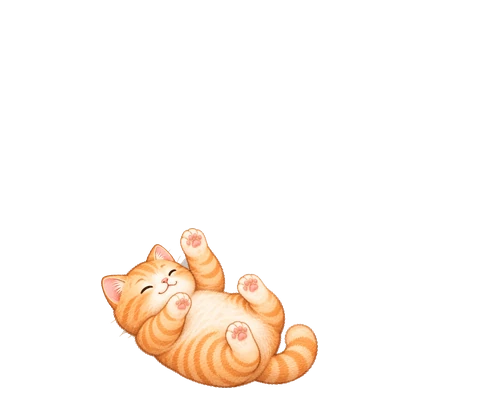
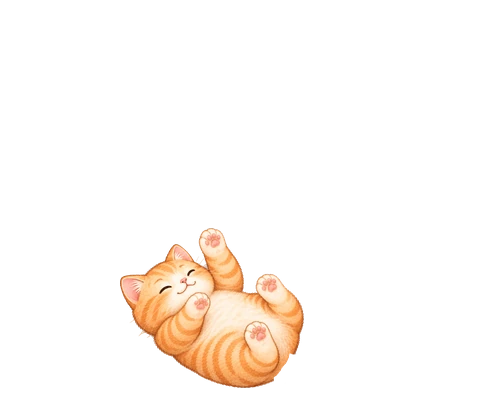
Wire in tail swish (tapuz belly1) and nudge temaki-ball cat up 15px
Body/tail split for a pose (raw/cats/<cat>-<pose>-notail.png + -tail.png) is
now a reusable pipeline feature: process_cat_tail re-derives the body's
placement transform and applies it to the tail so it lands pixel-perfect,
logs a ready-to-paste sway origin, and feathers the tail's alpha near the
seam so the rotation doesn't read as clipping into the hip.

Claude-Session: https://claude.ai/code/session_01E7v64VRdhvH8oCgXhRmXMK

Changed region(s): [[0.1875, 0.57, 0.6875, 0.99]]

diff --git a/index.html b/index.html
@@ -163,6 +163,14 @@
   /* --wob-deg lets a specific item rock further than the 1.5deg default (see ITEMS' wobbleDeg,
      e.g. the temari ball, which otherwise barely reads as moving at its 0.5x in-room scale). */
   @keyframes wob { 0%, 100% { transform: rotate(0); } 50% { transform: rotate(var(--wob-deg, 1.5deg)); } }
+  /* Tail swish (see CAT_TAILS): the tail is its own image, the same 480x400 canvas as its pose (see
+     process_cat_tail in process_art.py), stacked exactly over the body with inset:0 so no extra
+     positioning is needed here -- only a rotation around the base, where it meets the body. */
+  .cat-layer .tail-sway { position: absolute; inset: 0; width: 100%; height: 100%; animation: tail-swish 3.2s ease-in-out infinite; }
+  @keyframes tail-swish {
+    0%, 100% { transform: rotate(0deg); }
+    50% { transform: rotate(6deg); }
+  }
   /* Carp streamer fish: rocks side to side in the wind, not spinning like the pinwheel -- see
      itemLayers' `fish`. Asymmetric amplitude (further one way than the other) and the extra
      keyframe stops read as wind gusts rather than a metronome. */
@@ -593,7 +601,7 @@
     // it back down toward the bottom of the icon.
     // wobbleDeg: rocks further than the 1.5deg default -- at this item's 0.5x in-room scale the
     // default amplitude was barely visible (see --wob-deg in @keyframes wob).
-    'temaki-ball': { room: 'engawa', ja: '桜毬', tr: 'sakura mari', en: 'flowered thread ball', price: 180, pose: 'lie', wobble: true, wobbleDeg: 13, scale: 0.5, thumbScale: 0.5, thumbShiftY: 20, catScale: 1.1, cat: { x: 79.97, y: 88.36 } },
+    'temaki-ball': { room: 'engawa', ja: '桜毬', tr: 'sakura mari', en: 'flowered thread ball', price: 180, pose: 'lie', wobble: true, wobbleDeg: 13, scale: 0.5, thumbScale: 0.5, thumbShiftY: 20, catScale: 1.1, cat: { x: 79.97, y: 81.4 } },
     // belly1: the cat lies on its back underneath the flag, batting up at it.
     // fish: measured directly from the shared raw canvas before koinobori-stand.png/koinobori-fish.png
     // were split apart, so it lines back up with the pole exactly (see itemLayers' `fish`). origin is
@@ -871,6 +879,13 @@
   const catPortrait = (id, sil) => `<div class="portrait-cat${sil ? ' sil' : ''}"><img src="${art.cat(id, 'sit')}" alt=""></div>`;
   // Poses still enough to read as "resting" rather than mid-action -- see catLayer's `breathes`.
   const BREATHE_POSES = new Set(['sleep', 'sit', 'lie', 'peer', 'belly1', 'belly2', 'soak']);
+  // Cats with a tail split from their pose art so it can swish on its own (see raw/cats/<cat>-<pose>
+  // -notail.png + -tail.png, and process_cat_tail in process_art.py, which saves the aligned overlay
+  // to cats/<cat>/<pose>-tail.webp). origin is the tail's base -- where it meets the body -- found by
+  // process_cat_tail's placement math, not guessed: the closest point between the two cutouts in
+  // their shared raw canvas, converted to % of the 480x400 pose canvas (its log line prints it ready
+  // to paste here). Add a '<cat>-<pose>' entry as each cat's tail is extracted.
+  const CAT_TAILS = { 'tapuz-belly1': { origin: '60.5% 88.2%' } };
   function catLayer(v, it) {
     const pose = v.pose || it.pose;
     const o = (it.offset && it.offset[v.cat]) || { x: 0, y: 0, s: 1 };
@@ -884,8 +899,10 @@
     // poses (head/ride/face peeking or riding, half/full eating, soaking mid-motion) are left still
     // since a cat already doing something there doesn't also need an idle "alive" cue.
     const breathes = BREATHE_POSES.has(pose);
+    const tail = CAT_TAILS[`${v.cat}-${pose}`];
+    const tailImg = tail ? `<img class="tail-sway" src="cats/${v.cat}/${pose}-tail.webp" alt="" style="transform-origin:${tail.origin}">` : '';
     return `<div class="cat-layer${v.fresh ? ' cat-in' : ''}" style="left:${x - w * 0.5}%;top:${y - w * 0.97}%;width:${w}%">` +
-      shadow + `<img class="${breathes ? 'breathe' : ''}" src="${art.cat(v.cat, pose)}" alt=""></div>`;
+      shadow + `<img class="${breathes ? 'breathe' : ''}" src="${art.cat(v.cat, pose)}" alt="">${tailImg}</div>`;
   }
 
   /* ---------- Visiting logic (same rules as the yard, now per room) ---------- */

diff --git a/tools/process_art.py b/tools/process_art.py
@@ -23,6 +23,11 @@ Reads inn/raw/ and writes:
 
 Raw names:
   raw/cats/<cat>-<pose>[-<n>].png   e.g. tapuz-sit.png, tapuz-sleep-2.png
+  raw/cats/<cat>-<pose>-notail.png, raw/cats/<cat>-<pose>-tail.png
+                                     optional pair, body/tail split so the tail can sway at runtime
+                                     (see process_cat_tail and CAT_TAILS in index.html). The notail
+                                     art replaces <pose>.png for that cat; -tail.png is saved as its
+                                     own cats/<cat>/<pose>-tail.webp, aligned pixel-for-pixel onto it.
   raw/objects/<item>.png            e.g. box.png
   raw/food/<item>.png               consumable food items, e.g. yakitori.png
   raw/scene/room-<id>.png           e.g. room-zashiki.png (see ROOM_IDS in index.html)
@@ -107,6 +112,8 @@ FRONT_WALLS = {
 }
 
 POSE_RE = re.compile(r'^(?P<cat>[a-z]+)-(?P<pose>sit|sleep|lie|head|ride|face|half|soak|peer|full|belly1|belly2)(?:-(?P<n>\d+))?$')
+# A pose's body/tail split -- see process_cat_tail.
+TAIL_RE = re.compile(r'^(?P<cat>[a-z]+)-(?P<pose>[a-z0-9]+)-(?P<part>notail|tail)$')
 # Items where the backdrop seen through gaps (e.g. between a stool's legs) should be transparent too.
 CLEAR_HOLES = {'stool', 'mtchirashi', 'fan', 'gym', 'koinobori', 'koinobori-fish'}  # mtchirashi: the gap between the prawn's feelers; fan: the gap between the ribs where they meet the handle; gym: the triangular gaps inside each A-frame leg; koinobori: the gap between the pole and the string loop tied around it (processed from koinobori-stand.png -- see ITEM_RAW_NAME; koinobori-fish: the gap between the two cord struts where they converge to a single point, above the fish's mouth ring)
 # Items with a soft, low-saturation contact shadow baked into the raw art right where the subject
@@ -381,8 +388,10 @@ def head_width(rgba):
     return max(widths)
 
 
-def process_cat(cat, frames, log):
+def process_cat(cat, frames, log, tails=None):
     """frames: {(pose, n): raw path}. Every frame of one cat shares one scale factor.
+    tails: optional {pose: (notail_path, tail_path)} -- see process_cat_tail. frames[(pose, 1)] is
+    expected to already be the notail art for any pose listed here (see main()).
     Returns [(label, raw path, canvas)] for the contact sheet."""
     if ('sit', 1) not in frames:
         log(f'  SKIP {cat}: no sit pose (needed for the cat\'s scale)')
@@ -410,7 +419,69 @@ def process_cat(cat, frames, log):
         canvas = compose(cut[key], scale, f'{cat}/{name}')
         save_webp(canvas, CATS_OUT / cat / f'{name}.webp')
         rows.append((f'{cat} {name}', frames[key], canvas))
+        if tails and pose in tails and n == 1:
+            notail_path, tail_path = tails[pose]
+            process_cat_tail(cat, name, notail_path, tail_path, scale, log)
     return rows
+
+
+TAIL_FEATHER_RADIUS = 16   # canvas px (of 480x400) -- see process_cat_tail's feather
+
+
+def process_cat_tail(cat, name, notail_path, tail_path, scale, log):
+    """A tail drawn apart from its pose's body (see TAIL_RE: <cat>-<pose>-notail.png / -tail.png), so
+    it can sway independently at runtime instead of being baked still into the pose art (same idea as
+    the koinobori fish or gym charms -- see FLOATING -- but here the "body" half isn't floating, so it
+    can't just reuse process_floating). Re-derives the exact placement compose() would give the body
+    (scale, horizontal centring, baseline) and applies that same transform to the tail, using each
+    half's position in their shared raw canvas to find the offset between them -- so the tail lands
+    back on cats/<cat>/<name>.webp pixel-for-pixel where the artist drew it, with no manual tuning."""
+    body_rgba, *_ = cut_out(load(notail_path))
+    ys, xs = np.where(body_rgba[..., 3] > TRIM_ALPHA)
+    x_raw, y_raw = xs.min(), ys.min()
+    im_body = scale_img(trim(body_rgba), scale)
+    h, w = im_body.shape[:2]
+    cx = body_centre_x(im_body)
+    x0, y0 = round(W / 2 - cx), H - BASELINE_PAD - h
+
+    tail_rgba, *_ = cut_out(load(tail_path))
+    ys2, xs2 = np.where(tail_rgba[..., 3] > TRIM_ALPHA)
+    x_raw_t, y_raw_t = xs2.min(), ys2.min()
+    im_tail = scale_img(trim(tail_rgba), scale)
+    ht, wt = im_tail.shape[:2]
+    tx0 = x0 + (x_raw_t - x_raw) * scale
+    ty0 = y0 + (y_raw_t - y_raw) * scale
+
+    # Where the tail meets the body: the closest pair of pixels between the two raw cutouts (coarsely
+    # subsampled -- only needs to land within a few px). Logged as a ready-to-paste sway transform-
+    # origin (see CAT_TAILS in index.html), and used below to feather the tail's own alpha there.
+    bxs, bys = xs[::7], ys[::7]
+    best_d, attach = 1e18, (xs2[0], ys2[0])
+    for txp, typ in zip(xs2[::3], ys2[::3]):
+        d = (bxs - txp) ** 2 + (bys - typ) ** 2
+        i = d.argmin()
+        if d[i] < best_d:
+            best_d, attach = d[i], (txp, typ)
+    attach_x = x0 + (attach[0] - x_raw) * scale
+    attach_y = y0 + (attach[1] - y_raw) * scale
+    log(f'  {tail_path.name}: sway origin {attach_x / W * 100:.1f}% {attach_y / H * 100:.1f}% (see CAT_TAILS)')
+
+    canvas = np.zeros((H, W, 4), np.float32)
+    dx0, dy0 = max(0, round(tx0)), max(0, round(ty0))
+    dx1, dy1 = min(W, round(tx0) + wt), min(H, round(ty0) + ht)
+    canvas[dy0:dy1, dx0:dx1] = im_tail[dy0 - round(ty0):dy1 - round(ty0), dx0 - round(tx0):dx1 - round(tx0)]
+
+    # A rigid 2D rotation can't preserve the seam where the two halves meet -- the base has width, not
+    # just a point, so swinging it drags one edge of that width across the body's own fur every cycle,
+    # which reads as the tail clipping into the hip. Fading the tail's alpha in close to the attach
+    # point (full strength a short distance out) blends that edge into the fur underneath through the
+    # whole swing instead of butting a hard edge against it.
+    yy, xx = np.mgrid[0:H, 0:W]
+    feather = np.clip(np.hypot(xx - attach_x, yy - attach_y) / TAIL_FEATHER_RADIUS, 0.3, 1.0)
+    canvas[..., 3] *= feather
+
+    save_webp(canvas, CATS_OUT / cat / f'{name}-tail.webp')
+    log(f'  {tail_path.name}: tail overlay aligned to {notail_path.name}, {wt}x{ht}')
 
 
 def process_item(name, path, scale, log):
@@ -569,13 +640,18 @@ def main():
     args = ap.parse_args()
 
     cat_frames = defaultdict(dict)
+    cat_tails = defaultdict(dict)   # {cat: {pose: {'notail': path, 'tail': path}}} -- see TAIL_RE
     items = {}
     for p in sorted((RAW / 'cats').glob('*.png')):
         m = POSE_RE.match(p.stem)
         if m:
             cat_frames[m['cat']][(m['pose'], int(m['n'] or 1))] = p
-        else:
-            raise SystemExit(f'{p}: not a <cat>-<pose>[-<n>].png name, expected in raw/cats/')
+            continue
+        m = TAIL_RE.match(p.stem)
+        if m:
+            cat_tails[m['cat']].setdefault(m['pose'], {})[m['part']] = p
+            continue
+        raise SystemExit(f'{p}: not a <cat>-<pose>[-<n>].png name, expected in raw/cats/')
     for p in sorted((RAW / 'objects').glob('*.png')):
         items[p.stem] = p
     # Food items live in their own subfolder, but process and output the same way as any other item.
@@ -596,7 +672,14 @@ def main():
     sheet_rows = []
     for cat in sorted(cat_frames):
         log(f'cat {cat}')
-        sheet_rows.extend(process_cat(cat, cat_frames[cat], log))
+        tails = {}
+        for pose, parts in cat_tails.get(cat, {}).items():
+            if 'notail' in parts and 'tail' in parts:
+                cat_frames[cat][(pose, 1)] = parts['notail']
+                tails[pose] = (parts['notail'], parts['tail'])
+            else:
+                log(f'  WARNING {cat}-{pose}: only -{next(iter(parts))}.png present, need both -notail and -tail')
+        sheet_rows.extend(process_cat(cat, cat_frames[cat], log, tails=tails))
 
     if items or floating:
         ref = cat_frames.get(REF_CAT, {}).get(('sit', 1))
